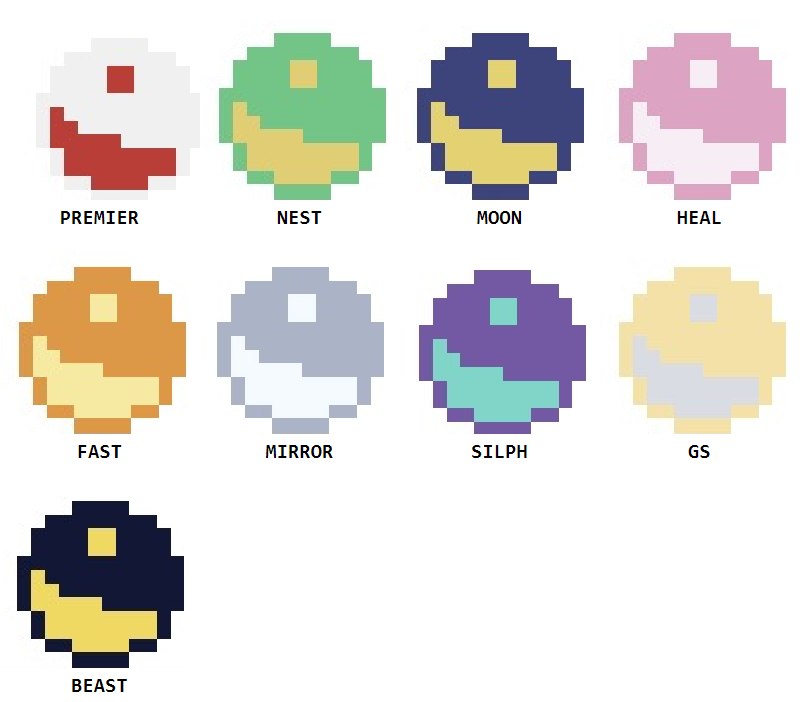
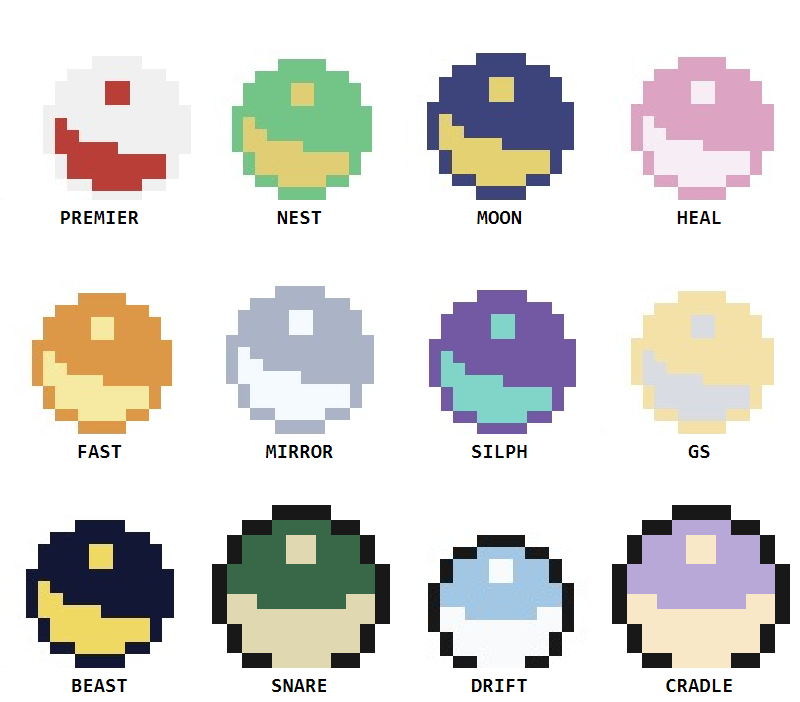
0.4.27: reviewed release copy, and the craft tier joins the ball grid
RELEASE COPY, drafted by the portfolio agent
(scratchpad/tmb-0.4.25-release-notes.md) and applied here with two
corrections rather than verbatim -- checked against the shipped source,
which is the point of the draft/commit split.

  1. KECLEON's recipe was given as "Green + Red + Pink". It is
     GRN_APRICORN 1 + RED_APRICORN 1, two apricorns, no pink. Publishing
     a recipe that does not exist would have players hunting a third
     apricorn for a ball they already had the ingredients for.
  2. "SIX BALLS YOU CRAFT YOURSELF" listed ACE BALL inline with the five
     real ones. ACE cannot be crafted -- it stays hidden until Route
     Aces, which has not shipped -- so it now reads FIVE, and ACE is
     described under the recipes-other-mods-teach bullet where it belongs
     and is marked "not available yet".

The draft's CRADLE claim that the caught ball is still remembered WAS
checked and is correct: resetCradleCaught mutates level/moves/stats/hp in
place and never touches mon.caughtBall, so the mark survives.

The draft is better copy than mine on two counts and is kept: the "why
Gold only" reason is apricorns rather than Kurt, and the shop_events
lockstep line no longer OPENS a release covering eighteen versions with
"No code change".

VERSION 0.4.27, not 0.4.25 as drafted -- 0.4.25 and 0.4.26 have both been
pushed to next since, and a CHANGELOG ships inside its zip so new text
needs a new version. Same reasoning the draft itself gives.
[…]

diff --git a/kanto_balls/CHANGELOG.md b/kanto_balls/CHANGELOG.md
@@ -8,57 +8,82 @@ the SAME version and attaches both zips, even when only one changed (a
 repo has one "latest release" for update-checking purposes, so a
 mismatched tag would point the other mod at the wrong file).
 
+## 0.4.27
+
+**Updating from 0.4.7?** This is the big one: **you can make your own balls
+now.** Kurt hands you a BALL CASE, and apricorns stop being just his
+business.
+
+- **KURT GIVES YOU THE BALL CASE.** After you rescue him from SLOWPOKE
+  WELL, as you are leaving and right after he hands over the LURE BALL, he
+  adds a few words of his own: apricorns are not only for his seven balls.
+  Mix them yourself and see what comes out.
+  - His own dialogue is untouched. Everything he normally says, he still
+    says — this is a coda after it, not a replacement.
+  - His seven recipes work exactly as before. The case is a second, separate
+    way to make balls; nothing canon is taken away.
+
+- **FIVE BALLS YOU CRAFT YOURSELF**, one at a time, from apricorns:
+  - **SNARE BALL** (2 Black) — a finisher. A **guaranteed** catch on a
+    sleeping or frozen target, and a dud on anything else. The dud is the
+    point: it rewards setting the status up rather than being a better ball.
+  - **CATALYST BALL** (Green + Yellow) — **4×** on anything that evolves by
+    a stone. Not just the Moon Stone: all of them.
+  - **DRIFT BALL** (White + Yellow) — the Heavy Ball's opposite. Best on the
+    light and hard to pin down.
+  - **KECLEON BALL** (Green + Red) — catches as well as a **GREAT BALL**,
+    and takes the colour of whatever you throw it at. Pink at a WIGGLYTUFF,
+    red at a SCIZOR, blue at a LAPRAS, shiny colours at a shiny. The
+    everyday ball of the set, and the cheapest recipe.
+  - **CRADLE BALL** (four apricorns) — the capstone. It **always catches**,
+    and what it catches **arrives at level 1**. That is a reward, not a
+    punishment: its DVs and training are untouched, so a Pokémon caught late
+    and started over ends up *stronger* at level 100 than one caught at its
+    original level. The ball it was caught in is still remembered — only the
+    level restarts.
+
+- **THE CASE HOLDS YOUR BALLS TOO.** *STOW ALL* moves every ball this mod
+  adds out of your bag and into the case; *TAKE BACK* returns them and shows
+  how many are waiting.
+  - Handy if you want to switch the mod off: stow first, and your bag looks
+    completely normal with everything safe until you turn it back on.
+  - **A full pocket cannot cost you anything.** Take back with no room and
+    you get whatever fits; the rest stays in the case.
+  - Apricorns stay in your bag — they are ordinary items — and the case
+    never stows itself.
+
+- **Recipes other mods can teach you.** A recipe can stay hidden until
+  another mod says you have earned it — hidden rather than greyed out, so a
+  mod you do not have never looks like something broken. The **ACE BALL**
+  (White + Blue) is the first, and it is **not available yet**: **Route
+  Aces** teaches it for beating every Johto route ace and its superboss.
+  It is 4× on a target at full HP, falling away to nothing by half HP — the
+  one ball that rewards catching something cleanly instead of wearing it
+  down. You do not need that mod; without it the recipe simply is not
+  there, and nothing else changes. If you earn it later it appears the next
+  time you open the case.
+
+- **Every ball has a description now.** They used to show a blank box in
+  marts, the PACK and the item PC, which looked broken rather than terse.
+
+- **Bag housekeeping** — the balls this mod adds no longer crowd your
+  pockets, and the GS and BEAST balls keep their proper pocket.
+
+**Crafting is Pokémon Gold only**, because apricorns are: Red, Blue and
+Yellow have none. Every ball this mod already added works on all four games
+exactly as before — this release does not take anything away from a Kanto
+game.
+
+*If you play on Gold, note that the engine does not currently keep mod
+options set on a Gold boot — set them from a Red boot and they will stick.*
+
+*Craft recipes and costs are a first pass and will be retuned once they have
+been played.*
+
 ## 0.4.26
 
-**Updating from 0.4.7? Kurt will teach you to make your own balls.**
-
-Everything below has landed since the last release. The headline is a
-whole second way to get a ball.
-
-- **The BALL CASE, and five balls you make yourself.** *Pokémon Gold.*
-  Go back to Kurt after the Slowpoke Well and he decides you're worth
-  teaching — he hands you a BALL CASE. It's a key item: use it from the
-  pack and it opens a workbench that mixes Apricorns into balls.
-  - **KECLEON BALL** (1 Green + 1 Red) — catches as well as a Great Ball,
-    **and turns the colour of whatever you throw it at.** Pink at a
-    Wigglytuff, red at a Scizor, blue at a Lapras. Throw it at a shiny
-    and the ball comes out shiny.
-  - **DRIFT BALL** (1 White + 1 Yellow) — 4× on light, airy Pokémon.
-  - **SNARE BALL** (2 Black) — catches a sleeping or frozen target
-    outright. A dud on anything awake.
-  - **CATALYST BALL** (1 Green + 1 Yellow) — 4× on species that evolve
-    with a stone.
-  - **CRADLE BALL** (1 White + 1 Pink + 1 Green + 1 Red) — never misses,
-    and your catch **starts over at level 1**. It isn't a punishment: its
-    DVs and stat experience come through untouched, so it grows the whole
-    curve from scratch and ends up stronger at 100 than a late catch.
-- **The case stores balls too.** *STOW ALL* clears every ball of this
-  mod's out of your pack; *TAKE BACK* returns them. If your pack is full
-  you get back what fits and the rest waits in the case — nothing is ever
-  lost. Your Apricorns stay where they are.
-- **Kurt's own seven recipes are untouched.** He still makes what he
-  always made; this is in addition, and his dialogue is his own.
-- **Room in your bag for all of it.** Gold's ball pocket only holds
-  twelve kinds, which this mod fills by itself, so it now adds a slot per
-  ball it brings. Nothing else gets more room and nothing you own is
-  touched. *VANILLA BAG LIMITS* turns it off.
-- **Balls have descriptions now.** They used to show an empty box in
-  marts and in the pack.
-- **Fixed: a GS or BEAST BALL you already owned could fall out of the
-  BALLS pocket** if you turned the dev option off. They're registered on
-  every boot now, so anything you have keeps its pocket and its colour.
-
-*If you play on Gold, note that the engine doesn't currently keep mod
-options set on a Gold boot — set them from a Red boot and they'll stick.*
-
-**New in this release specifically:** the developer-only probes and the free
-Apricorn shelf used to build all this are gone from the release, and the
-BALL CASE is off the dev shelf now that Kurt hands it over properly.
-Documentation caught up with the mod.
-
-**Also new in 0.4.26:** screenshots of the BALL CASE and of the KECLEON
-BALL taking its target's colours, on the download page and in the mod's
-own README.
+- Superseded by 0.4.27 before release; see above. Screenshots of the BALL
+  CASE and of the KECLEON BALL taking its target's colours.
 
 ## 0.4.25
 

diff --git a/kanto_balls/README.md b/kanto_balls/README.md
@@ -13,7 +13,7 @@ your save changes. Before that it was **Example Balls**, id
 `example_balls` — that one is a genuinely different id, so remove it if
 you still have it.)*
 
-<img src="https://raw.githubusercontent.com/mistermiracle3036/Too-Many-Balls/main/docs/ball-colors.png" width="520" alt="Nine of the balls in their own colors: Premier, Nest, Moon, Heal, Fast, Mirror, Silph, GS and Beast">
+<img src="https://raw.githubusercontent.com/mistermiracle3036/Too-Many-Balls/main/docs/ball-colors.png" width="520" alt="Every ball in its own colors: Premier, Nest, Moon, Heal, Fast, Mirror, Silph, GS, Beast, Snare, Drift and Cradle">
 
 There are two ways to get a ball here. Most are **bought** at marts. The
 rest are **crafted** from Apricorns in the BALL CASE, which is a Gold

diff --git a/README.md b/README.md
@@ -159,7 +159,7 @@ actually changed. See each mod's CHANGELOG for why.
   **Pokémon Center heal machine**: each party slot shows the ball its
   Pokémon was caught in, taken from the same palettes registered here.
 
-  <img src="docs/ball-colors.png" width="520" alt="Nine of the balls in their own colors: Premier, Nest, Moon, Heal, Fast, Mirror, Silph, GS and Beast">
+  <img src="docs/ball-colors.png" width="520" alt="Every ball in its own colors: Premier, Nest, Moon, Heal, Fast, Mirror, Silph, GS, Beast, Snare, Drift and Cradle">
 
   *Requires Pokeball Colors with **COLORS** set to ADVANCED — without it
   every ball throws in the default palette. GS and BEAST are the two

diff --git a/shop_events/CHANGELOG.md b/shop_events/CHANGELOG.md
@@ -8,6 +8,12 @@ the SAME version and attaches both zips, even when only one changed (a
 repo has one "latest release" for update-checking purposes, so a
 mismatched tag would point the other mod at the wrong file).
 
+## 0.4.27
+
+- No changes to Shop Events itself. It releases in lockstep with Too Many
+  Balls, so this version exists to keep the two in step — see below for
+  what is new.
+
 ## 0.4.26
 - No code change. Lockstep release with Too Many Balls 0.4.26.
 
